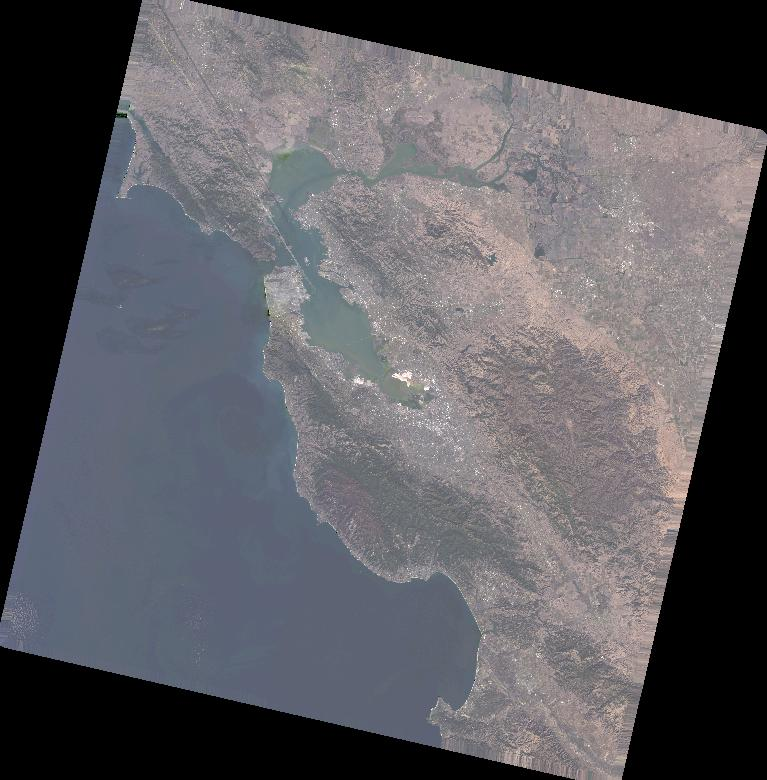
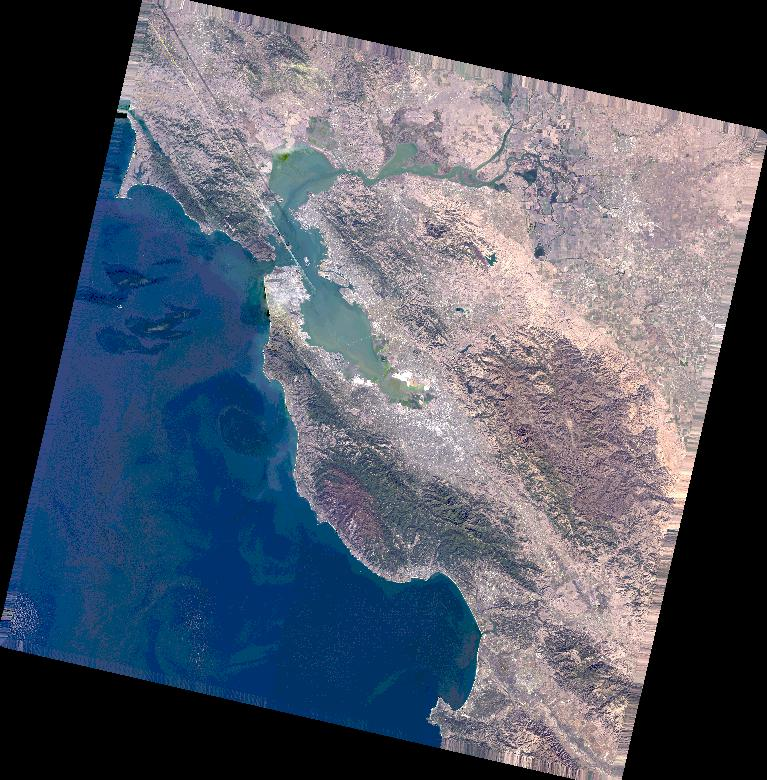
Formatting

diff --git a/src/process.py b/src/process.py
@@ -1,11 +1,8 @@
 from glob import glob
 import os
 import subprocess
-
-stackcommand = "gdal_merge.py -o rgb.tif -ot Byte -separate -co PHOTOMETRIC=RGB -co COMPRESS=DEFLATE {red} {green} {blue}"
-tcicommand = "gdal_translate -scale 20 80 0 255 -exponent 0.5 -ot Byte -of JPEG -outsize 10% 10% rgb.tif tci.jpg"
-# tcicommand = "gdal_translate -scale 20 0 255 -of JPEG -outsize 10% 10% rgb.tif tci.jpg"
-cleanupcommand = "rm *.tif*"
+from PIL import Image
+import numpy as np
 
 
 def getminmax(tiffile):
@@ -24,7 +21,7 @@ def getminmax(tiffile):
 
 
 def scaleandfill(tiffiles):
-    """function to fill no data and scale values from 0 to 1"""
+    """function to fill no data and scale values from 0 to 255"""
     outfilelist = []
     for tiffile in tiffiles:
         nodatafilename = "nodata" + tiffile[-6:]
@@ -45,6 +42,14 @@ def scaleandfill(tiffiles):
     return outfilelist
 
 
+def getstretchlimits(tiffile):
+    """get the color stretch limits based on a histogram"""
+    with Image.open(tiffile) as im:
+        imarray = np.array(im)
+        imarray = imarray[imarray > 10]  # get rid of the values near zero
+        return [np.percentile(imarray, 1), np.percentile(imarray, 99)]
+
+
 def getpreview(dir="download"):
     """Create a quick JPEG preview for a sample Landsat input"""
     bandfiles = glob(os.path.join(dir, "*B[2-4].TIF"))
@@ -57,9 +62,24 @@ def getpreview(dir="download"):
         green,
         red,
     ) = scaleandfill(bandfiles)
-    # unpack the bands in to the three colors red, blue and green oninllnaegag
-    os.system(stackcommand.format(red=red, green=green, blue=blue))
-    os.system(tcicommand)
+    # unpack the bands in to the three colors red, blue and green
+    stackcommand = (
+        "gdal_merge.py -o rgb.tif -ot Byte -separate -co "
+        "PHOTOMETRIC=RGB -co COMPRESS=DEFLATE {red} {green} {blue}"
+    )
+
+    os.system(
+        stackcommand.format(red=red, green=green, blue=blue)
+    )  # this creates a stacked file 'rgb.tif'
+    stretchmin, stretchmax = getstretchlimits("rgb.tif")
+    tcicommand = (
+        "gdal_translate -scale {stretchmin} {stretchmax} 0 255 "
+        "-exponent 0.5 -ot Byte -of JPEG -outsize 10% 10% rgb.tif tci.jpg"
+    )
+    os.system(
+        tcicommand.format(stretchmin=stretchmin, stretchmax=stretchmax)
+    )  # this color stretches the image and writes to jpeg
+    cleanupcommand = "rm *tif *TIF *xml"
     os.system(cleanupcommand)
     return True
 

diff --git a/src/visualize.py b/src/visualize.py
@@ -1,0 +1,19 @@
+import matplotlib.pyplot as plt
+from osgeo import gdal
+
+""" dataset = gdal.Open("rgb.TIF", gdal.GA_ReadOnly)
+band = dataset.GetRasterBand(1)
+array = band.ReadAsArray()
+
+plt.hist(array.flatten(),bins=50)
+plt.savefig('histrgb1.png') """
+
+from PIL import Image
+import numpy as np
+
+im = Image.open("rgb.tif")
+imarray = np.array(im)
+imarray = imarray[imarray > 10]
+print(np.percentile(imarray, 1), np.percentile(imarray, 99))
+# ff = plt.hist(imarray.flatten(),bins=50)
+# plt.savefig('histrgb.png')
